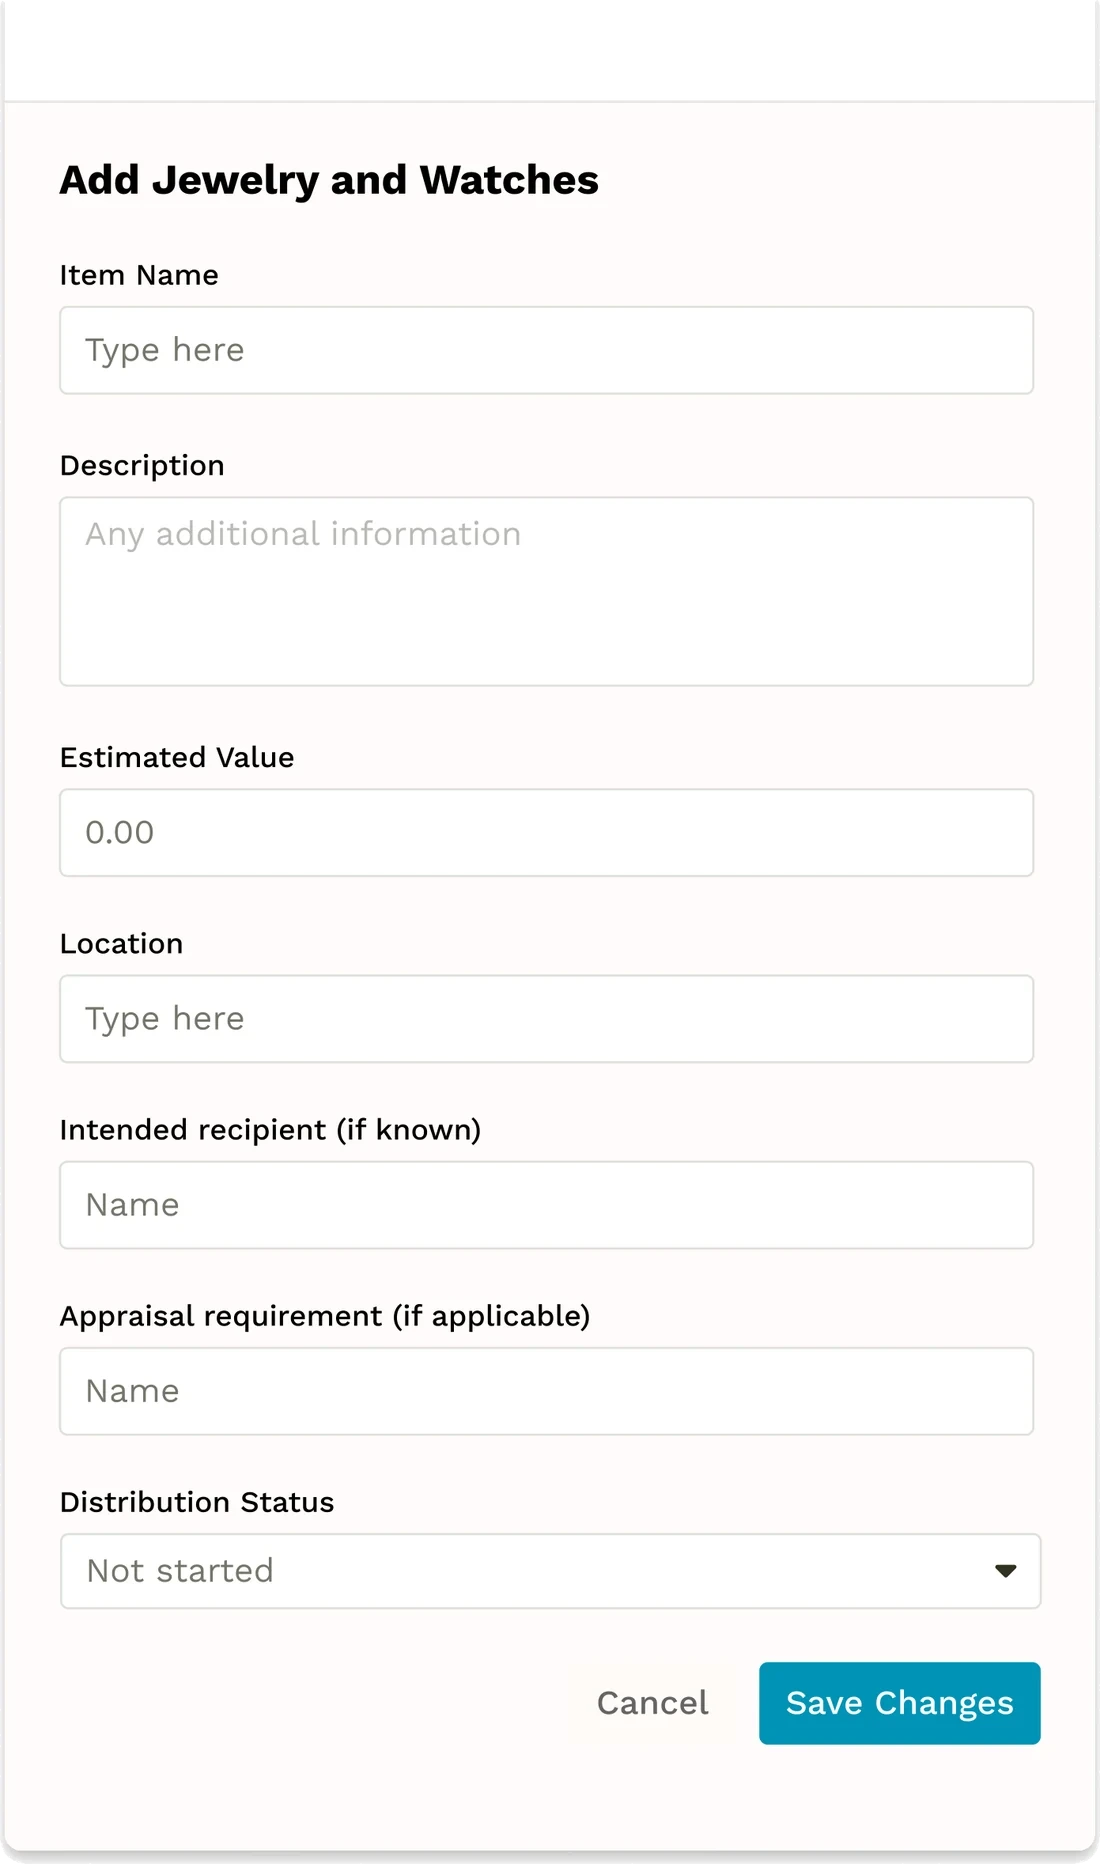
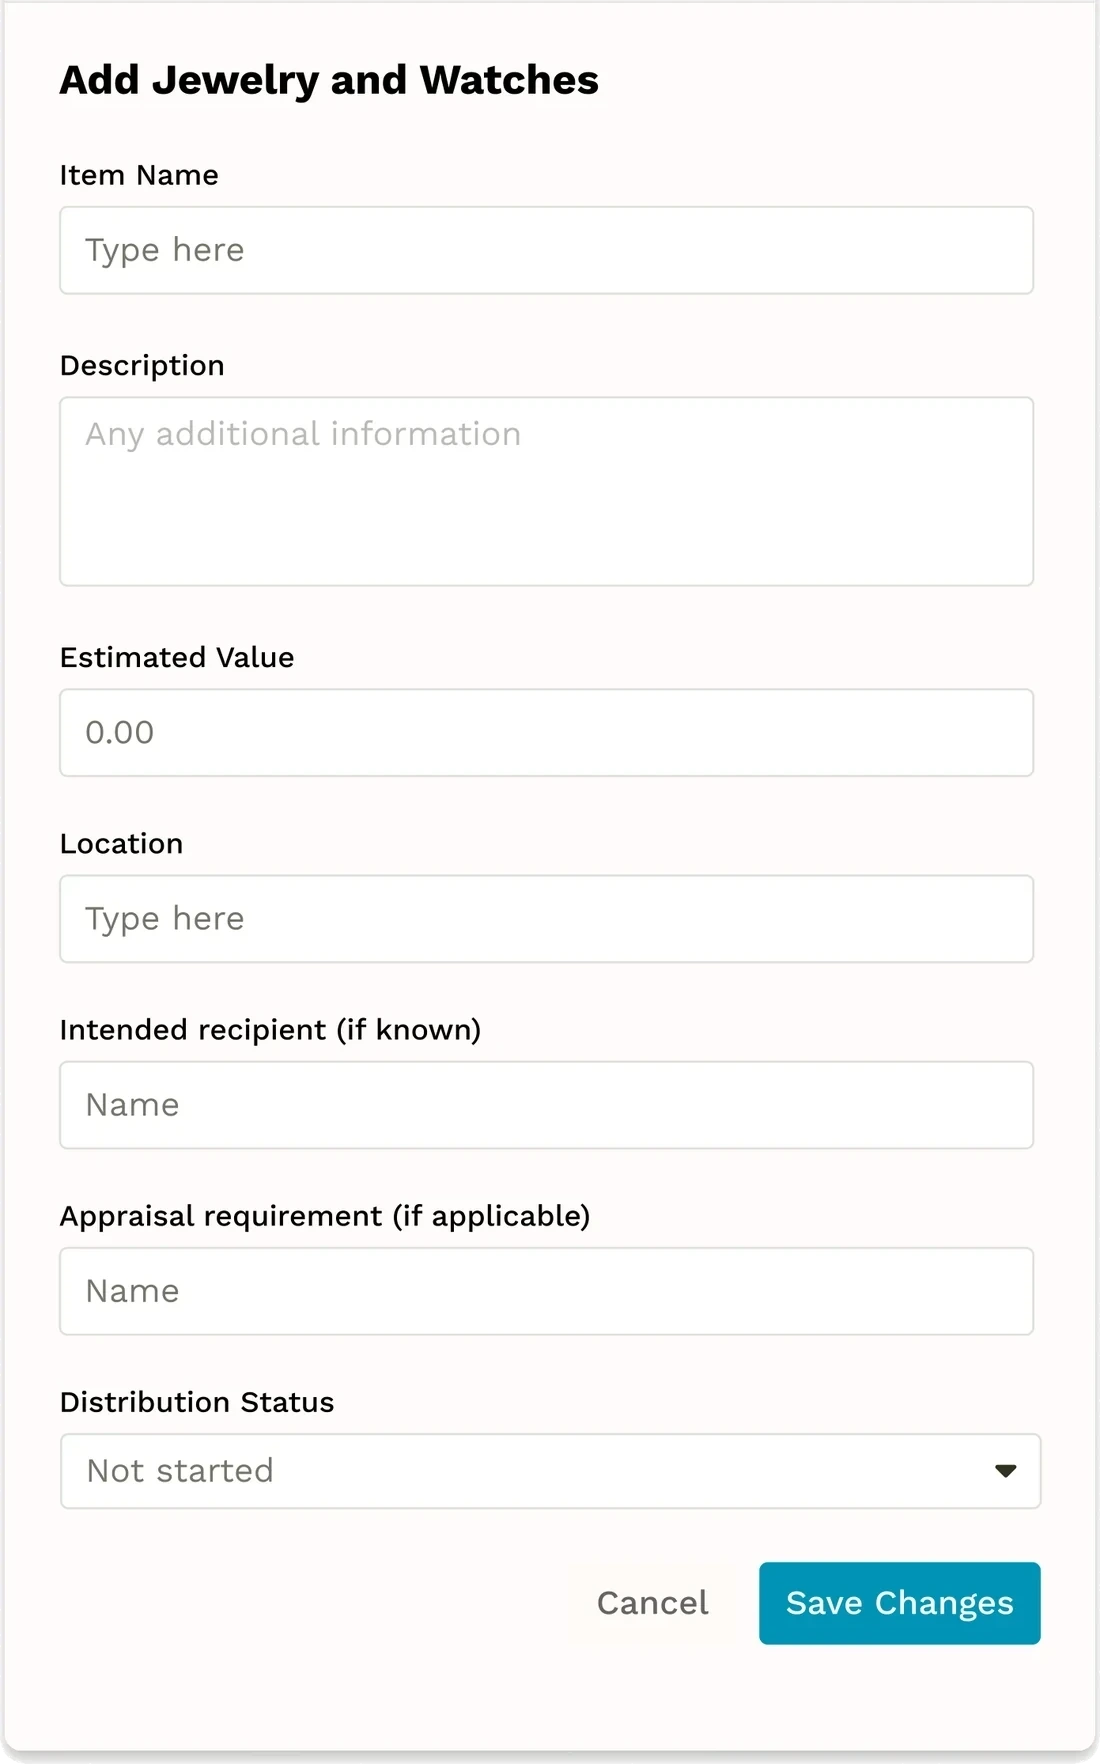
End of an Era: crop the transparent band above the Add Jewelry and Watches form

diff --git a/app/work/end-of-an-era/frames.ts b/app/work/end-of-an-era/frames.ts
@@ -34,7 +34,7 @@ export const FRAMES = {
   "realestate-noplanner-4": { w: 1494, h: 1953, win: [4, 20, 1400, 996] },
   "realestate-noplanner-5": { w: 1408, h: 1024, win: [3, 20, 1400, 995] },
   "personal-noplanner-1": { w: 1405, h: 1024, win: [0, 20, 1400, 995] },
-  "personal-noplanner-2": { w: 1100, h: 1864, win: null },
+  "personal-noplanner-2": { w: 1100, h: 1764, win: null },
   "personal-noplanner-3": { w: 1408, h: 1024, win: [3, 20, 1400, 995] },
   "business-noplanner-1": { w: 1427, h: 1356, win: [7, 20, 1400, 1009] },
   "business-noplanner-2": { w: 1403, h: 2020, win: [3, 20, 1400, 995] },
